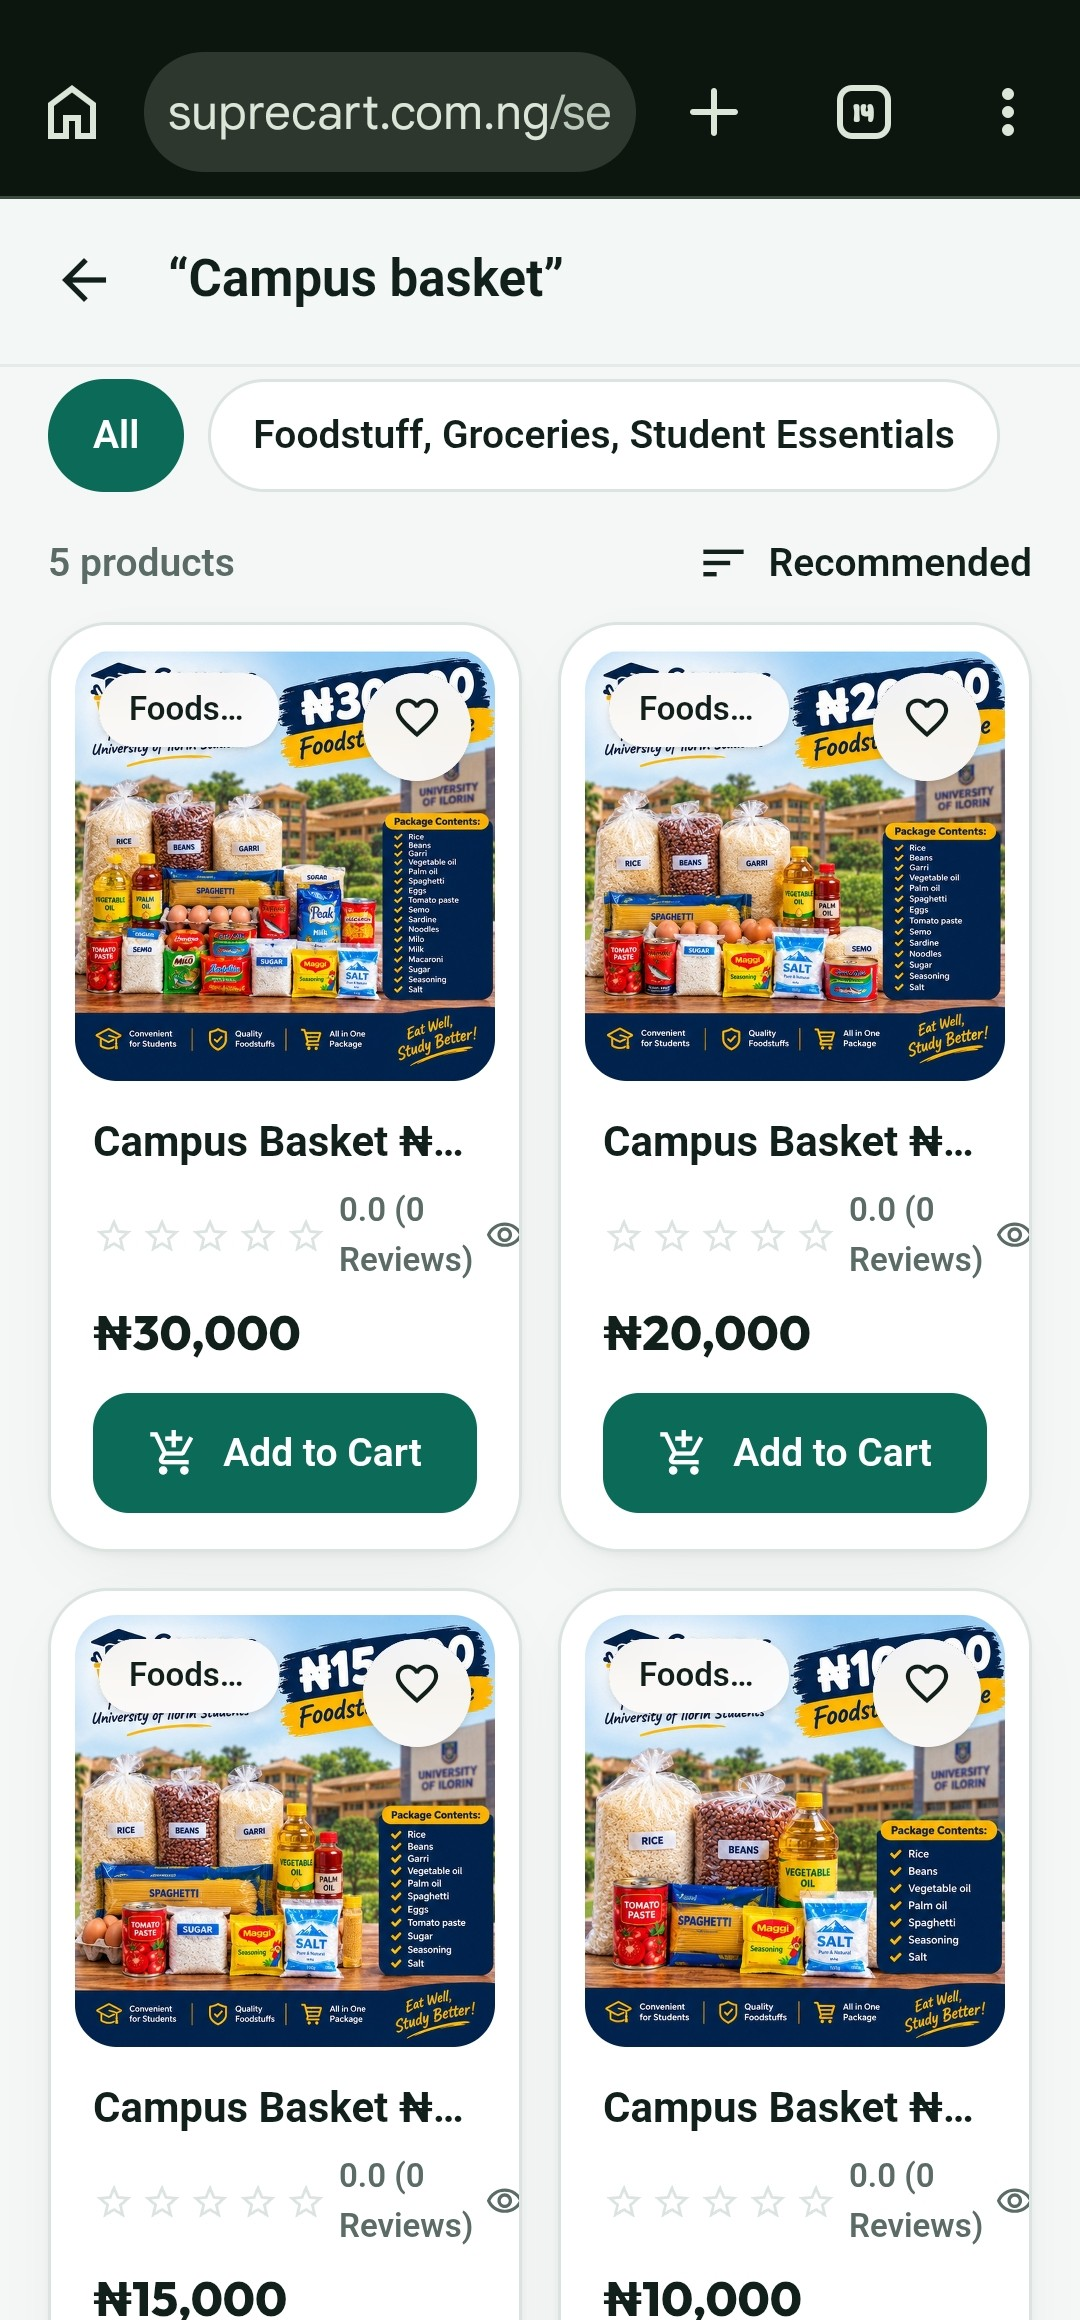
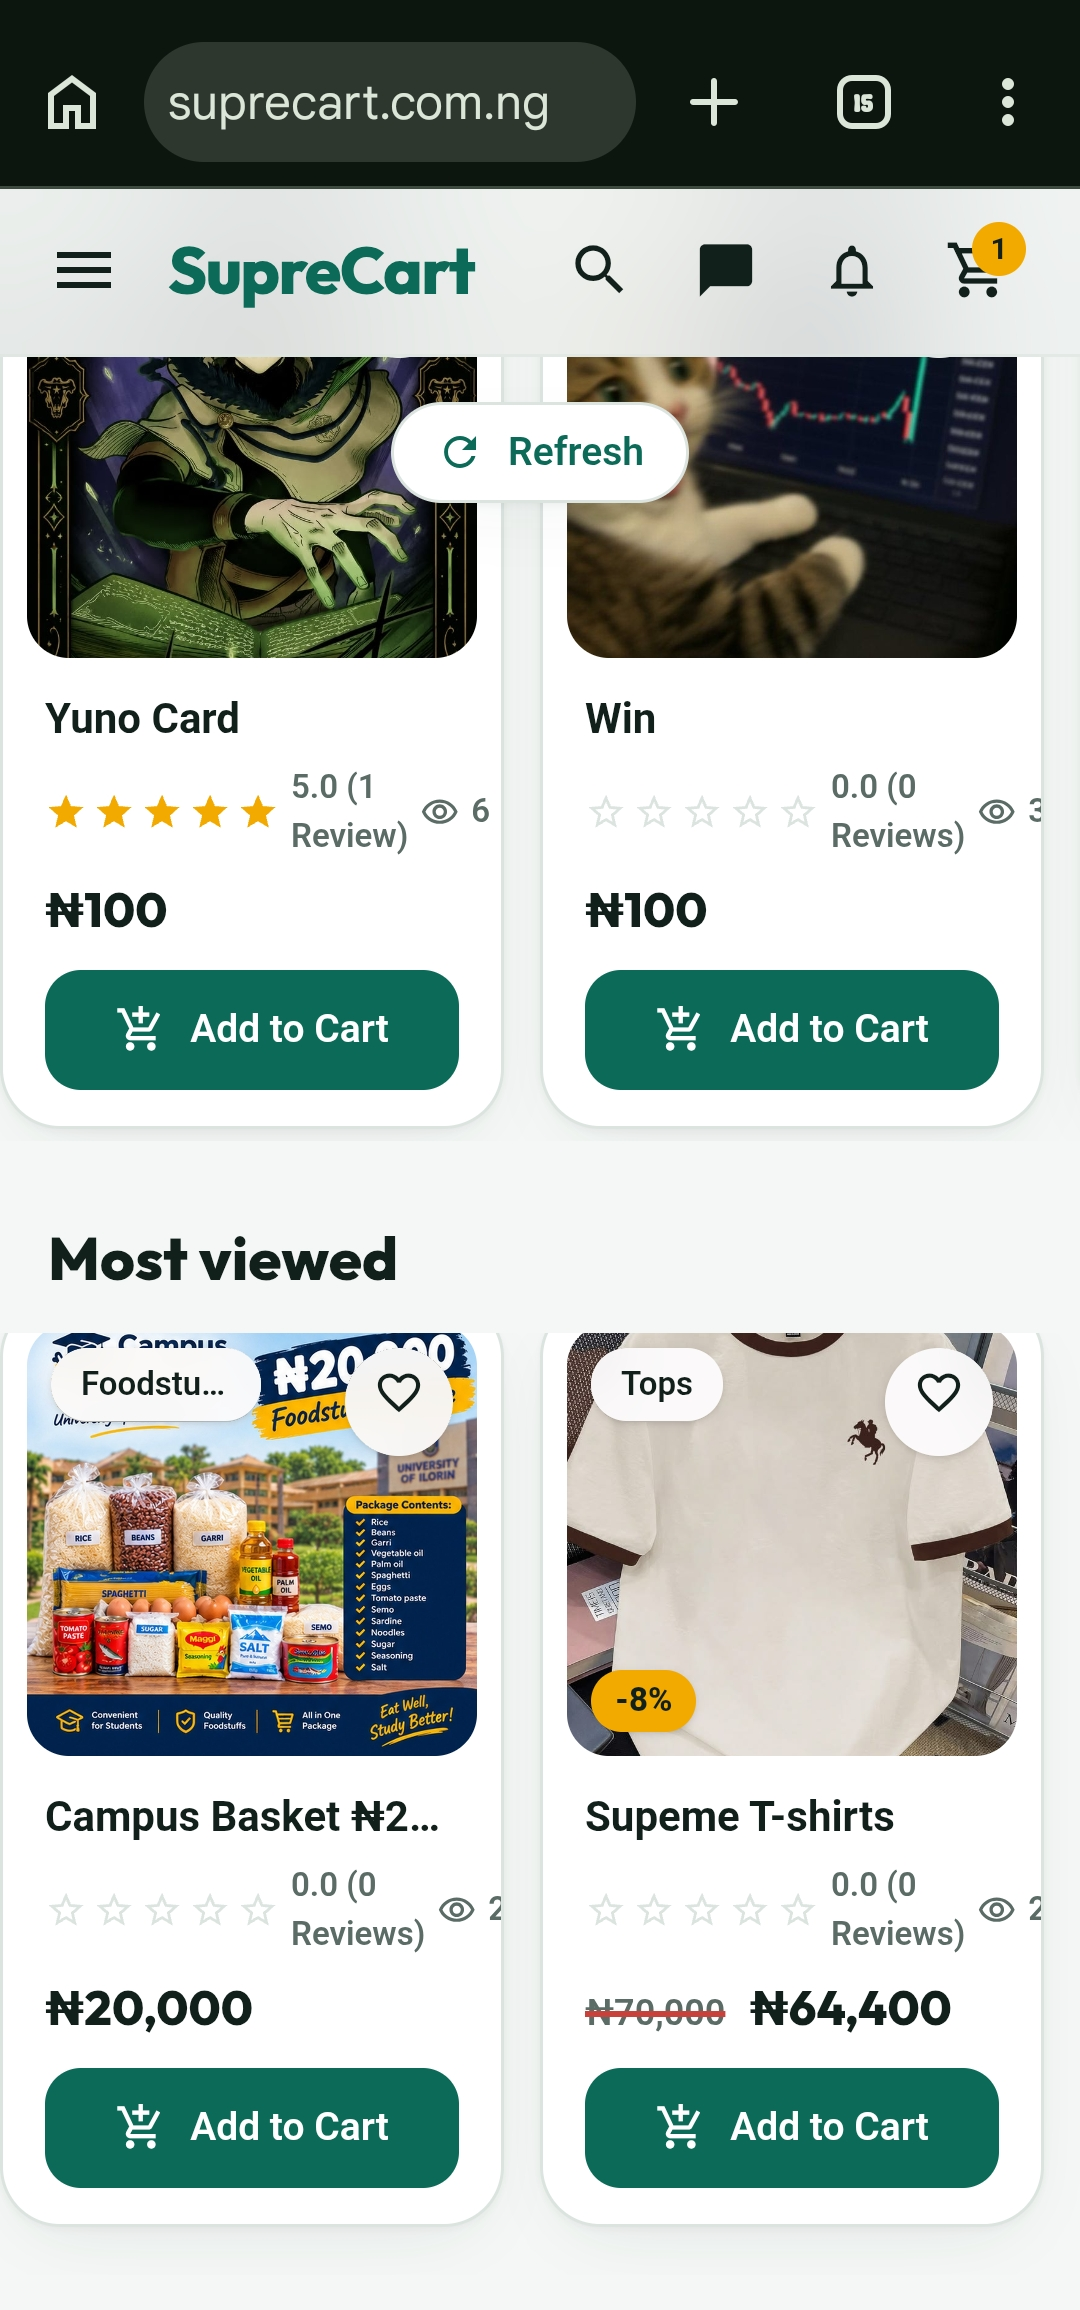
Wire new guide screenshots: search, seller dashboard, orders, payout, chat, tracking

diff --git a/index.html b/index.html
@@ -229,13 +229,12 @@ footer{padding:28px 0 40px;color:var(--muted);font-size:13px;text-align:center}
      </ul>
     </div>
    </div>
-   <!-- IMAGE SLOT: role switcher or seller dashboard → images/roles-seller.jpeg -->
-   <div class="guideGrid" style="margin-top:16px">
-    <figure class="shot" data-slot="Seller dashboard → save as images/roles-seller.jpeg">
-     <img src="images/roles-seller.jpeg" alt="Seller dashboard with listings, orders and payouts" loading="lazy"
-          onerror="this.parentElement.classList.add('empty');this.remove()">
-     <figcaption>Seller dashboard — listings, orders, payouts</figcaption>
-    </figure>
+    <div class="guideGrid" style="margin-top:16px">
+     <figure class="shot">
+      <img src="images/seller_dashboard.jpg" alt="Seller dashboard with listings, orders and payouts" loading="lazy"
+           onerror="this.parentElement.classList.add('empty');this.remove()">
+      <figcaption>Seller dashboard — listings, orders, payouts</figcaption>
+     </figure>
     <figure class="shot" data-slot="Rider / logistics view → save as images/roles-rider.jpeg">
      <img src="images/roles-rider.jpeg" alt="Rider logistics view with delivery jobs" loading="lazy"
           onerror="this.parentElement.classList.add('empty');this.remove()">
@@ -378,8 +377,8 @@ footer{padding:28px 0 40px;color:var(--muted);font-size:13px;text-align:center}
     <div class="carousel" aria-roledescription="carousel" aria-label="Buying guide">
      <div class="c-track" data-carousel>
       <article class="c-slide">
-       <figure class="shot" data-slot="Search / home feed → save as images/buy-1.jpeg">
-        <img src="images/buy-1.jpeg" alt="Search or browse listings on the home feed" loading="lazy"
+       <figure class="shot">
+        <img src="images/search.jpg" alt="Search or browse listings on the home feed" loading="lazy"
              onerror="this.parentElement.classList.add('empty');this.remove()">
         <figcaption>Find the item</figcaption>
        </figure>
@@ -453,8 +452,8 @@ footer{padding:28px 0 40px;color:var(--muted);font-size:13px;text-align:center}
        </div>
       </article>
       <article class="c-slide">
-       <figure class="shot" data-slot="Seller orders list → save as images/sell-2.jpeg">
-        <img src="images/sell-2.jpeg" alt="Seller orders list with new order" loading="lazy"
+       <figure class="shot">
+        <img src="images/order_list.jpg" alt="Seller orders list with new order" loading="lazy"
              onerror="this.parentElement.classList.add('empty');this.remove()">
         <figcaption>Accept the order</figcaption>
        </figure>
@@ -468,8 +467,8 @@ footer{padding:28px 0 40px;color:var(--muted);font-size:13px;text-align:center}
        </div>
       </article>
       <article class="c-slide">
-       <figure class="shot" data-slot="Seller payouts screen → save as images/sell-3.jpeg">
-        <img src="images/sell-3.jpeg" alt="Seller payouts screen with bank transfer status" loading="lazy"
+       <figure class="shot">
+        <img src="images/payout.jpg" alt="Seller payouts screen with bank transfer status" loading="lazy"
              onerror="this.parentElement.classList.add('empty');this.remove()">
         <figcaption>Payout to your bank</figcaption>
        </figure>
@@ -496,13 +495,13 @@ footer{padding:28px 0 40px;color:var(--muted);font-size:13px;text-align:center}
     <h3>Guide 4 · Chat, share and track</h3>
     <p class="sub">Stay in the loop from first message to delivered order.</p>
     <div class="guideGrid">
-     <figure class="shot" data-slot="Chat thread → save as images/feat-chat.jpeg">
-      <img src="images/feat-chat.jpeg" alt="In-app chat between buyer and seller" loading="lazy"
+     <figure class="shot">
+      <img src="images/live_chat.jpg" alt="In-app chat between buyer and seller" loading="lazy"
            onerror="this.parentElement.classList.add('empty');this.remove()">
       <figcaption>In-app chat on a listing / order</figcaption>
      </figure>
      <figure class="shot">
-      <img src="images/order_details2.jpg" alt="Order tracking timeline" loading="lazy"
+      <img src="images/order_tracking.jpg" alt="Order tracking timeline" loading="lazy"
            onerror="this.parentElement.classList.add('empty');this.remove()">
       <figcaption>Order tracking — payment to handoff</figcaption>
      </figure>

diff --git a/README.md b/README.md
@@ -35,18 +35,21 @@ edit needed.
 | Slot | File under `images/` |
 | --- | --- |
 | Overview screenshot | `home.jpg` ✓ |
+| Seller dashboard | `seller_dashboard.jpg` ✓ |
+| Rider / logistics view | `roles-rider.jpeg` |
+| Buy guide — find item | `search.jpg` ✓ |
 | Buy guide — pay | `checkout.jpg` ✓ |
 | Buy guide — confirm receipt | `order_details1.jpg` ✓ |
-| Order tracking | `order_details2.jpg` ✓ |
+| Sell guide — open shop | `sell-1.jpeg` |
+| Sell guide — orders | `order_list.jpg` ✓ |
+| Sell guide — payouts | `payout.jpg` ✓ |
+| Chat thread | `live_chat.jpg` ✓ |
+| Order tracking | `order_tracking.jpg` ✓ |
 | Share shop link | `shop_share.jpg` ✓ |
-| Seller dashboard | `roles-seller.jpeg` |
-| Rider / logistics view | `roles-rider.jpeg` |
-| Buy guide — find item | `buy-1.jpeg` |
-| Sell guide step 1–3 | `sell-1.jpeg`, `sell-2.jpeg`, `sell-3.jpeg` |
-| Chat thread | `feat-chat.jpeg` |
 
 Already present (listing guide): `1.jpeg`, `2.jpeg`, `3.jpeg`.
-✓ = already added.
+Also on disk (unused): `order_details2.jpg`.
+✓ = wired into the page.
 
 Prefer `.jpeg` / `.jpg` / `.png`. Keep screenshots under ~300 KB so the page stays
 fast on mobile data.
